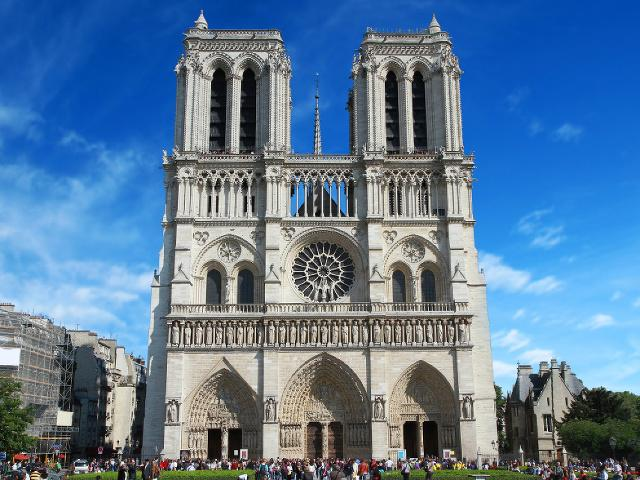
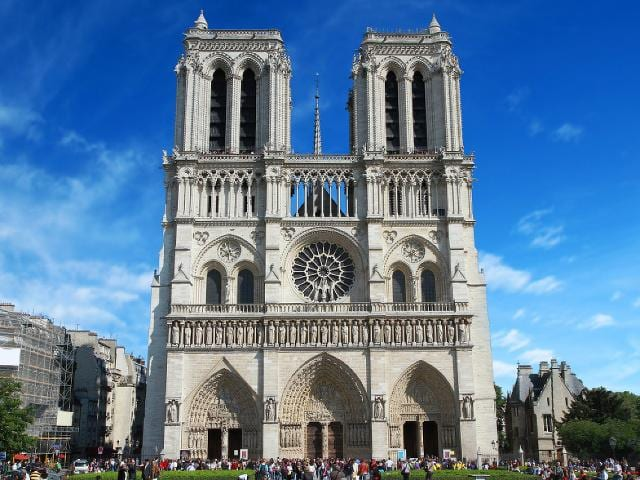
Compress photo assets and serve Paris 3D textures as WebP
Paris scene cards load through three.js TextureLoader, bypassing the
next/image optimizer, so they now point at WebP copies (q75, same
dimensions, all under 2048px). Texture-only JPEGs are removed; eiffel,
louvre and notredame keep JPEGs for next/image and OG/social cards.
Oversized destination photos are capped at 2560px and a few JPEGs are
re-encoded with mozjpeg q82 where it actually saved bytes.

Claude-Session: https://claude.ai/code/session_018CKwEW4YriFhN8Z3FvfQLx

diff --git a/lib/parisExperience.ts b/lib/parisExperience.ts
@@ -74,7 +74,7 @@ export const PARIS_LANDMARKS: ParisLandmark[] = [
     position: [-6, 0, 2],
     height: 6.2,
     range: iconRanges[0],
-    photo: "/paris/eiffel.jpg",
+    photo: "/paris/eiffel.webp",
     aspect: 1.551,
   },
   {
@@ -85,7 +85,7 @@ export const PARIS_LANDMARKS: ParisLandmark[] = [
     position: [1, 0, -2],
     height: 1.9,
     range: iconRanges[1],
-    photo: "/paris/louvre.jpg",
+    photo: "/paris/louvre.webp",
     aspect: 1.904,
   },
   {
@@ -96,7 +96,7 @@ export const PARIS_LANDMARKS: ParisLandmark[] = [
     position: [-3, 0, -3],
     height: 2.3,
     range: iconRanges[2],
-    photo: "/paris/arc.jpg",
+    photo: "/paris/arc.webp",
     aspect: 1.498,
   },
   {
@@ -107,7 +107,7 @@ export const PARIS_LANDMARKS: ParisLandmark[] = [
     position: [4, 0, 0],
     height: 3.0,
     range: iconRanges[3],
-    photo: "/paris/notredame.jpg",
+    photo: "/paris/notredame.webp",
     aspect: 1.333,
   },
   {
@@ -118,7 +118,7 @@ export const PARIS_LANDMARKS: ParisLandmark[] = [
     position: [0, 3, -6],
     height: 3.6,
     range: iconRanges[4],
-    photo: "/paris/sacrecoeur.jpg",
+    photo: "/paris/sacrecoeur.webp",
     aspect: 1.776,
   },
   {
@@ -129,7 +129,7 @@ export const PARIS_LANDMARKS: ParisLandmark[] = [
     position: [-1, 0, -4.5],
     height: 2.1,
     range: iconRanges[5],
-    photo: "/paris/garnier.jpg",
+    photo: "/paris/garnier.webp",
     aspect: 1.6,
   },
   {
@@ -140,7 +140,7 @@ export const PARIS_LANDMARKS: ParisLandmark[] = [
     position: [-4.5, 0, 1],
     height: 1.3,
     range: iconRanges[6],
-    photo: "/paris/pont.jpg",
+    photo: "/paris/pont.webp",
     aspect: 1.294,
   },
 ];
@@ -153,7 +153,7 @@ export const PARIS_NEIGHBORHOODS: ParisNeighborhood[] = [
     position: [0, 3, -6],
     height: 3.6,
     range: neighborhoodRanges[0],
-    photo: "/paris/montmartre.jpg",
+    photo: "/paris/montmartre.webp",
     aspect: 1.5,
   },
   {
@@ -163,7 +163,7 @@ export const PARIS_NEIGHBORHOODS: ParisNeighborhood[] = [
     position: [3, 0, -1],
     height: 1.6,
     range: neighborhoodRanges[1],
-    photo: "/paris/marais.jpg",
+    photo: "/paris/marais.webp",
     aspect: 0.799,
   },
   {
@@ -173,7 +173,7 @@ export const PARIS_NEIGHBORHOODS: ParisNeighborhood[] = [
     position: [3, 0, 2.2],
     height: 1.7,
     range: neighborhoodRanges[2],
-    photo: "/paris/latin.jpg",
+    photo: "/paris/latin.webp",
     aspect: 1.5,
   },
   {
@@ -183,7 +183,7 @@ export const PARIS_NEIGHBORHOODS: ParisNeighborhood[] = [
     position: [0, 0, 3.2],
     height: 2.0,
     range: neighborhoodRanges[3],
-    photo: "/paris/germain.jpg",
+    photo: "/paris/germain.webp",
     aspect: 1.333,
   },
 ];

diff --git a/lib/site.ts b/lib/site.ts
@@ -14,7 +14,7 @@ export const DEFAULT_TITLE = "EUROPA — Europe, Beyond the Postcard";
 export const DEFAULT_DESCRIPTION =
   "An interactive, scroll-driven concept journey through ten of Europe's most unforgettable places — from Paris to Iceland.";
 
-/** Confirmed present at public/destinations/paris.jpg */
+/** Confirmed present at public/paris/louvre.jpg — keep it JPEG (social crawlers). */
 export const DEFAULT_OG_IMAGE = "/paris/louvre.jpg";
 export const DEFAULT_OG_IMAGE_ALT = "The Louvre pyramid at daylight";
 
